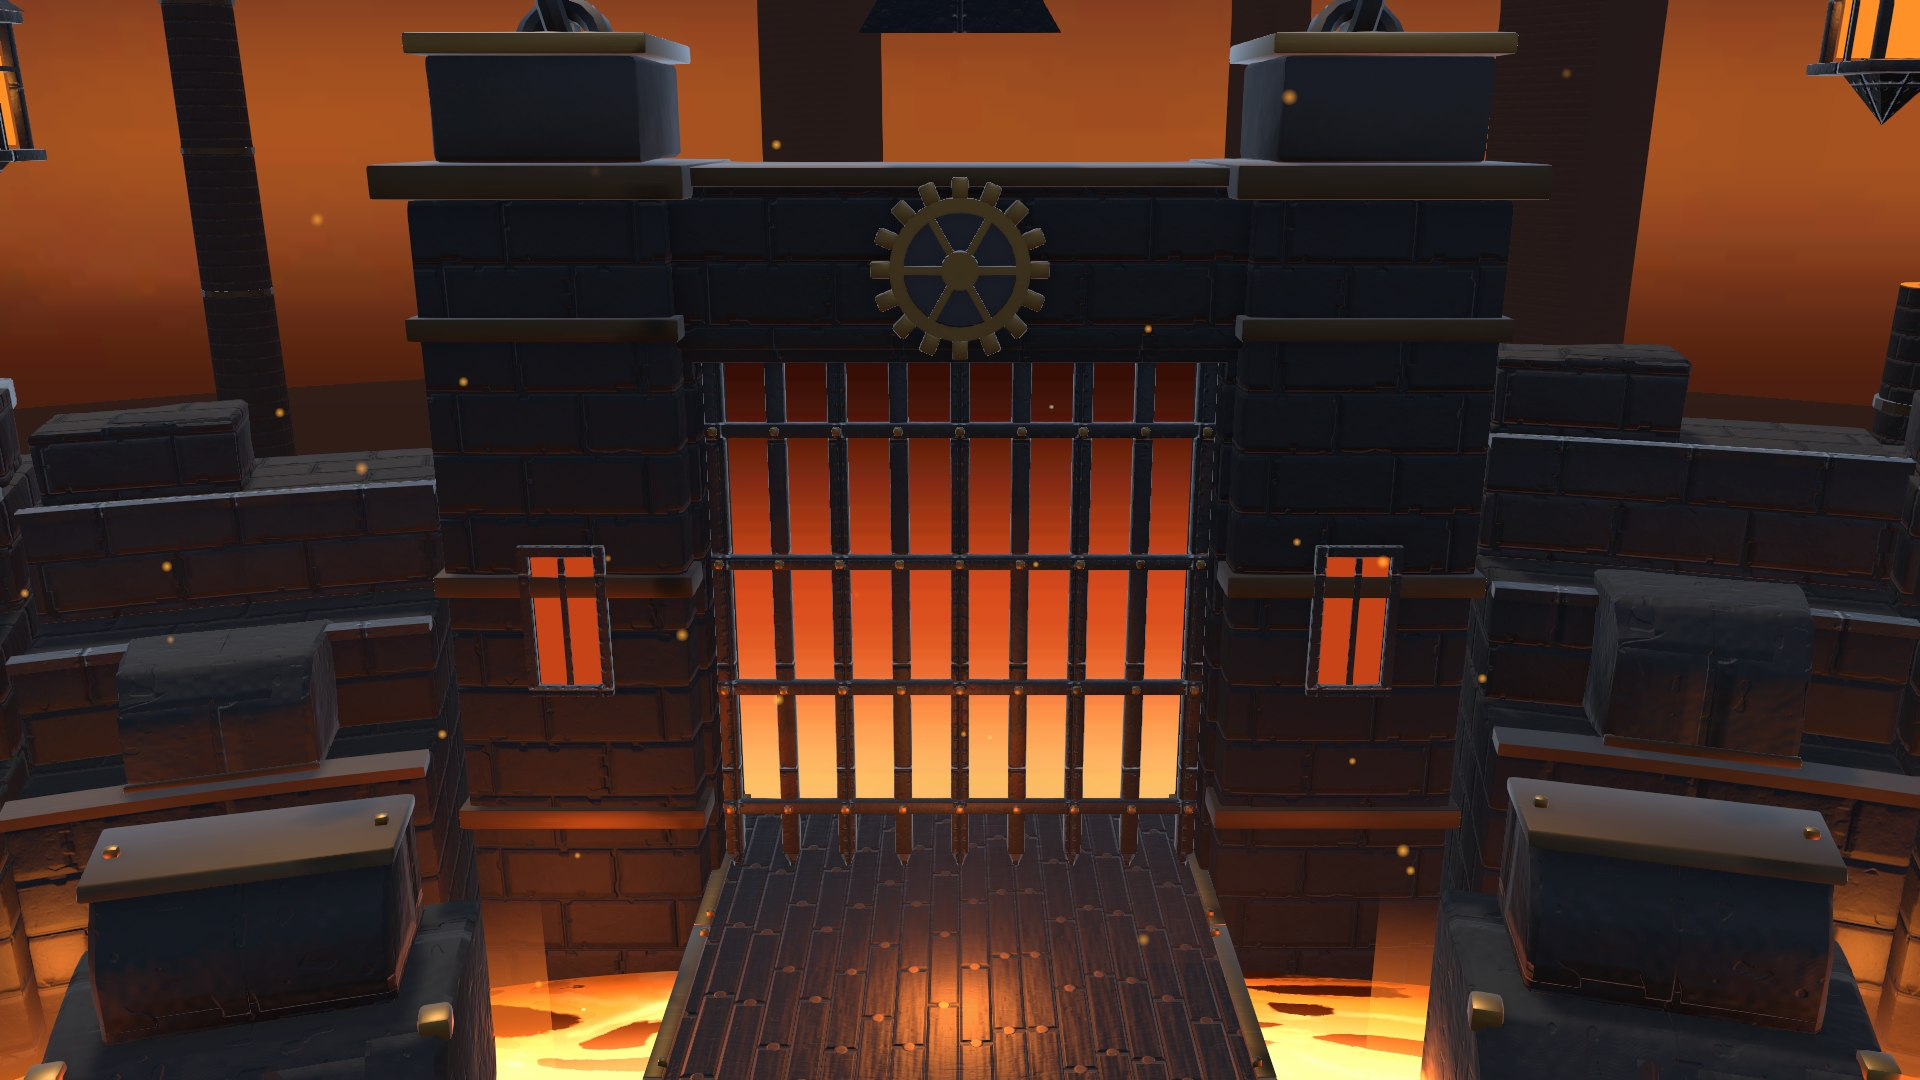
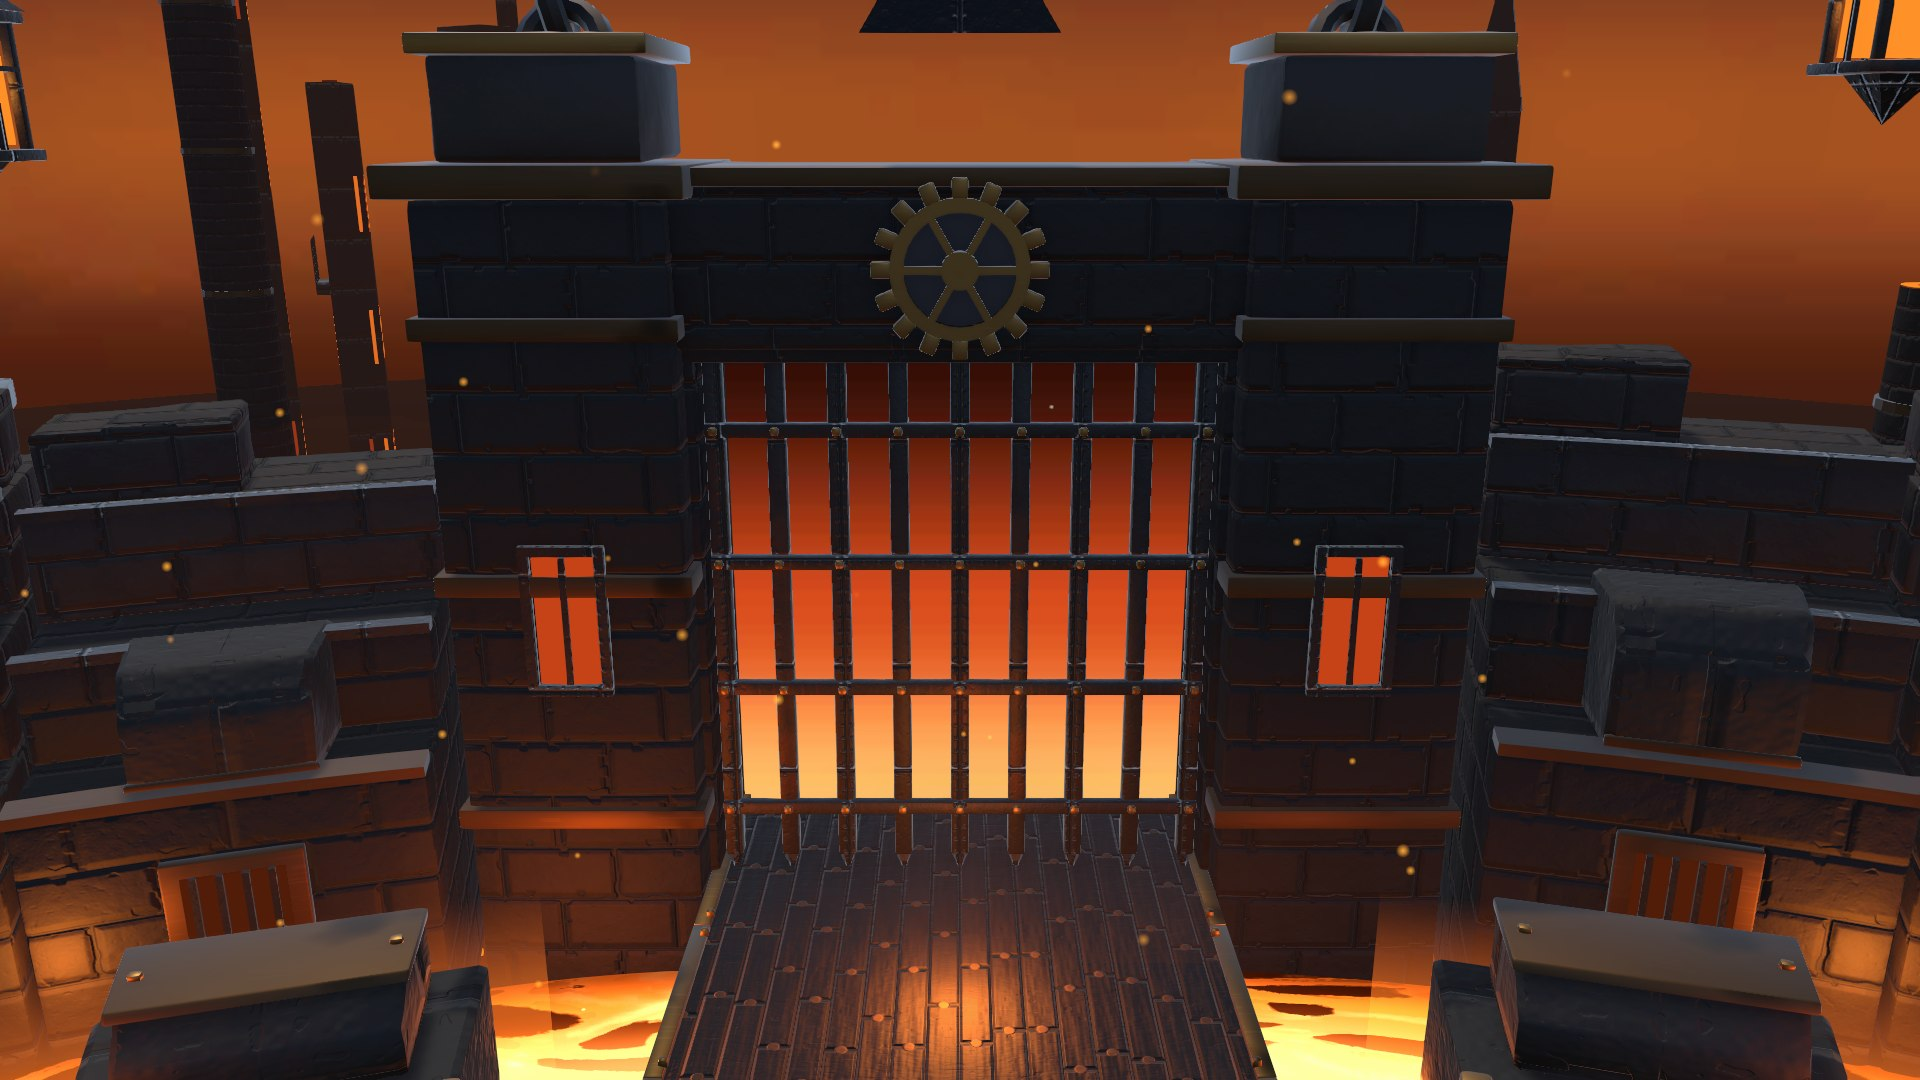
Area 2 art pass 2 (proposal): shots and README

diff --git a/prototype/arena-3d/areas/area-2/README.md b/prototype/arena-3d/areas/area-2/README.md
@@ -159,3 +159,23 @@ The rim and moat now follow the reference rather than the earlier critic's "wedg
   - Brass that reads as raised metal.
   - Chain pylons at the gantry and bridge mouths.
   - Real silhouette buildings in place of the flat city cards.
+
+### 3 Nov art pass 2 (proposal: done as recommended, waiting for Chzy18's review)
+
+This pass is on branch `feature/area2-art-2`, on top of PR 23. It's local only until it's accepted. If it's rejected, drop the branch.
+- **Merlons:** a riveted brass strap across each big merlon's arena face, crisper edges (less wear, fewer chips), and lower merlons on the far (north) half, so the lava band shows there too.
+- **City:** the far horizon silhouettes are now the Blender foundry buildings, scaled up, instead of plain cards.
+- **Gantries:** gate pillars with small cage lanterns at both gantry mouths, as at the entry bridge. The lanterns have no lights of their own, to stay inside the light budget.
+- **Haze:** a slow orange haze rises out of the abyss around the drum.
+- **Floor bronze:** wider cardinal straps and a broader edge band with 32 bracket tabs. It stays matte, with no glow.
+- **Checks:**
+  - Lava flow: 15.7 against 0.00.
+  - Occlusion: 0 of 128 blocked.
+  - Budget: 875 k triangles and 88 lights.
+- **Critic:** 7.7 → 7.8 → 7.9 / 10. Open items:
+  - The rim should be a regular, machined crown.
+  - The lava should be mostly crust, with light only in seams.
+  - The backdrop should be a layered city with depth haze.
+  - The floor needs tonal panels.
+  - The merlon UV seams need fixing.
+- **When it's accepted:** run `BatchRefreshCopies` (run scene and menu showcase), publish `current-player-assets` v3, then push.
